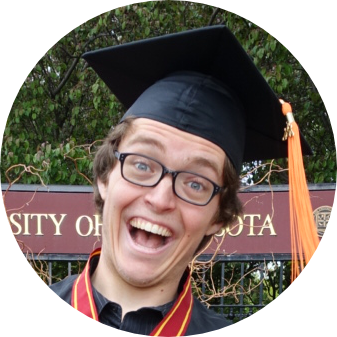
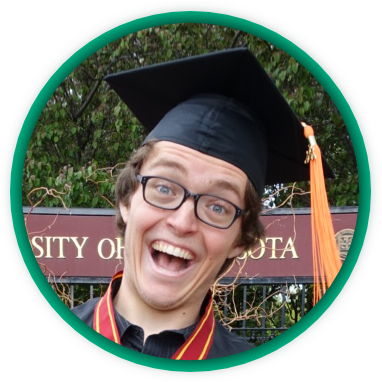
nav image done for now?

diff --git a/_includes/navbar.html b/_includes/navbar.html
@@ -6,7 +6,7 @@
         <span class="icon-bar"></span>
         <span class="icon-bar"></span>                        
       </button>
-      <a href="http://dev-lan.github.io/index.html"><img width="50" height="50" src="http://dev-lan.github.io/img/me/smallRound.png"></a>
+      <a class="navbar-left" href="http://dev-lan.github.io/index.html"><img width="60" height="60" src="http://dev-lan.github.io/img/me/smallRound.png"></a>
       <a class="navbar-brand" href="http://dev-lan.github.io/index.html">Devin Lange</a>
     </div>
     <div class="collapse navbar-collapse" id="myNavbar">
